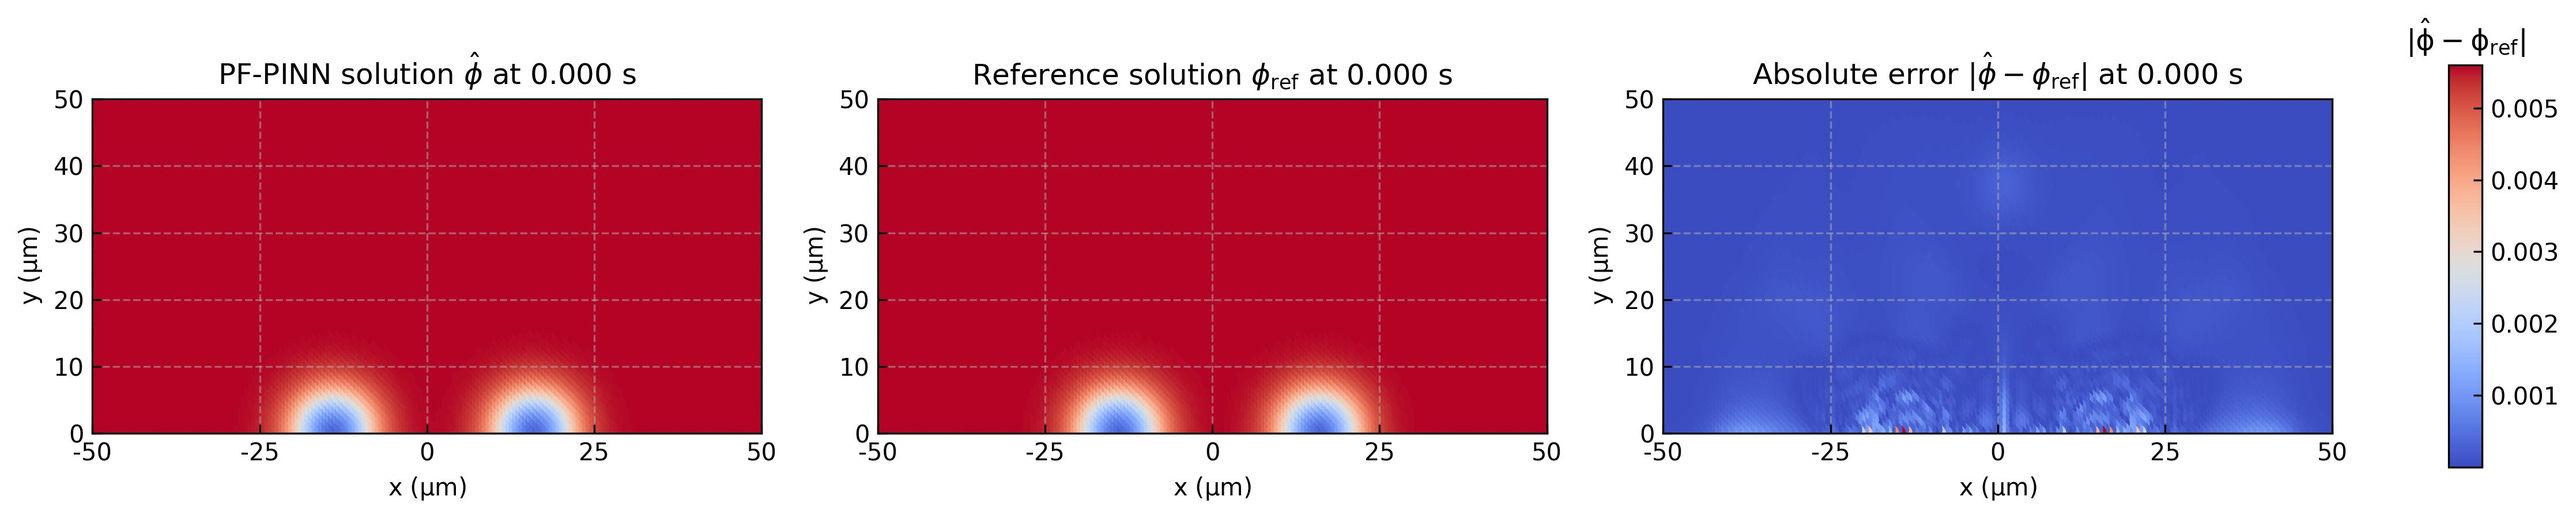
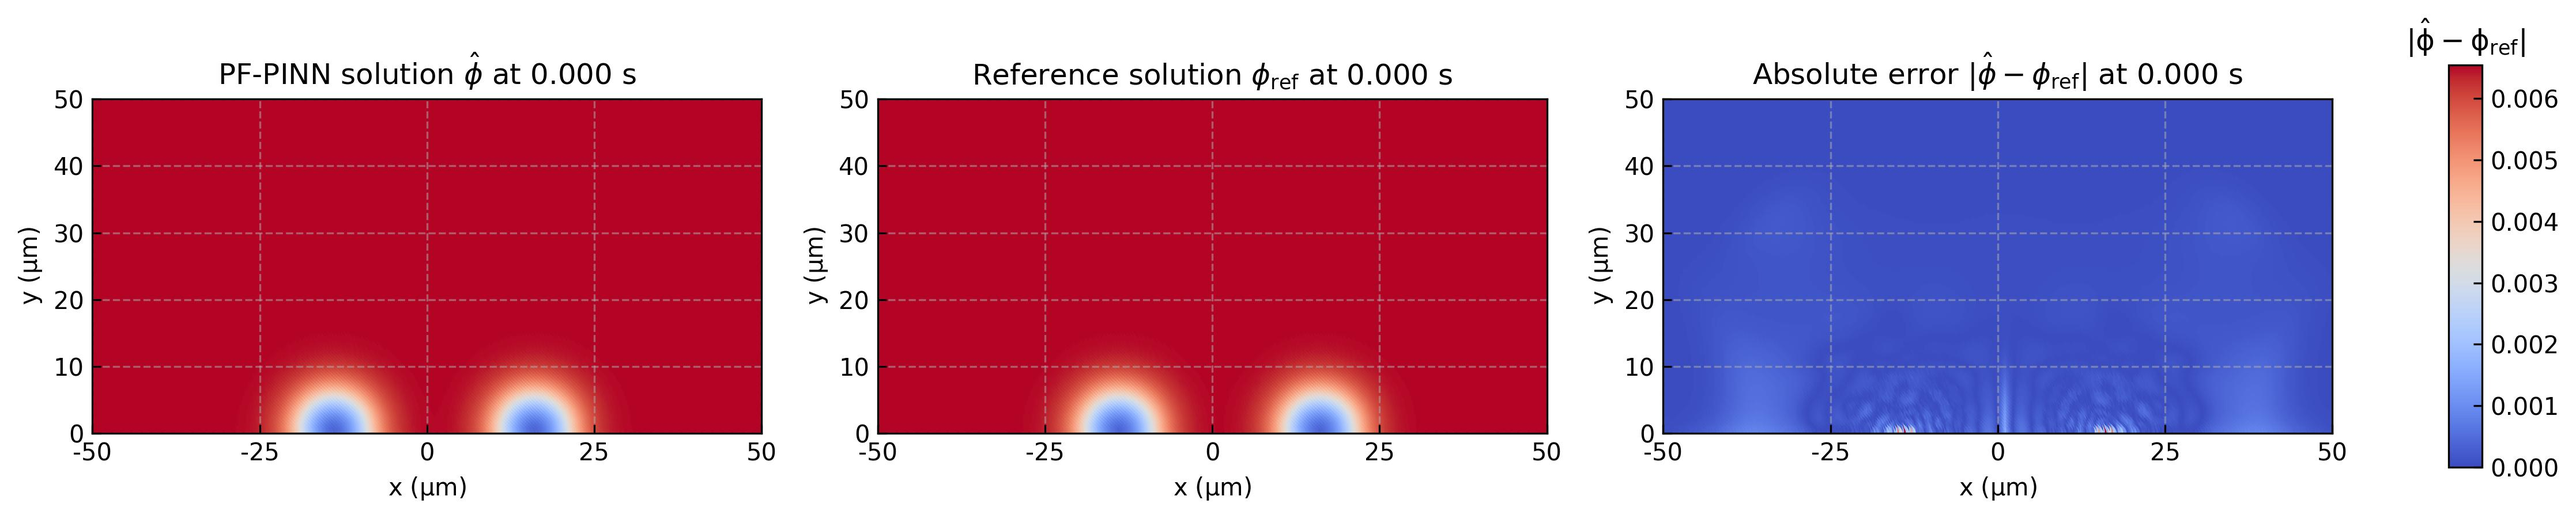
change mixedmodel

diff --git a/pf_pinn/model.py b/pf_pinn/model.py
@@ -169,10 +169,10 @@ class ModifiedMLP(torch.nn.Module):
         ])
 
         self.out_layer = torch.nn.Linear(hidden_dim, out_dim)
-        self.act = torch.nn.GELU()
+        self.act = torch.nn.SiLU()
         # self.alpha = torch.nn.Parameter(
-        #     torch.tensor([3.0]*out_dim, dtype=torch.float32),
-        #     requires_grad=True)
+        #     torch.tensor([5.0]*out_dim, dtype=torch.float32),
+        #     requires_grad=False)
 
         # use xavier initialization
         torch.nn.init.xavier_normal_(self.gate_layer_1.weight)
@@ -180,16 +180,16 @@ class ModifiedMLP(torch.nn.Module):
         for layer in self.hidden_layers:
             torch.nn.init.xavier_normal_(layer.weight)
         torch.nn.init.xavier_normal_(self.out_layer.weight)
-        
+
     def forward(self, x):
         u = self.act(self.gate_layer_1(x))
         v = self.act(self.gate_layer_2(x))
         for idx, layer in enumerate(self.hidden_layers):
             x = self.act(layer(x))
             x = x * u + (1 - x) * v
-        return torch.tanh(self.out_layer(x)) / 2 + 1/2
+        # return torch.tanh(self.out_layer(x)) / 2 + 1/2
         # return torch.sigmoid(self.out_layer(x))
-        # return self.out_layer(x)
+        return self.out_layer(x)
 
         
 class MultiscaleAttentionNet(torch.nn.Module):
@@ -231,9 +231,9 @@ class ResNet(torch.nn.Module):
         self.hidden_layers = torch.nn.ModuleList([torch.nn.Linear(hidden_dim, hidden_dim) for _ in range(layers)])
         self.out_layer = torch.nn.Linear(hidden_dim, out_dim)
         self.act = torch.nn.Tanh()
-        self.alpha = torch.nn.Parameter(
-            torch.tensor([3.0]*out_dim, dtype=torch.float32),
-            requires_grad=True)
+        # self.alpha = torch.nn.Parameter(
+        #     torch.tensor([3.0]*out_dim, dtype=torch.float32),
+        #     requires_grad=True)
         
     def forward(self, x):
         # x = self.feature_fusion(x)
@@ -245,30 +245,35 @@ class ResNet(torch.nn.Module):
             # x = self.act(layer(x))
             
         # return torch.tanh(self.out_layer(x)) / 2 + 1/2
-        return torch.tanh(self.out_layer(x)) / 2 + 1/2
+        # return torch.tanh(self.out_layer(x)) / 2 + 1/2
+        return self.out_layer(x)
         
-# class MixedModel(torch.nn.Module):
-#     def __init__(self, in_dim, hidden_dim, out_dim, layers):
-#         super().__init__()
-#         self.model_cs = ModifiedMLP(in_dim, hidden_dim, out_dim, layers)
-#         self.model_phi = ModifiedMLP(in_dim, hidden_dim, out_dim, layers)
-
-#     def forward(self, x):
-#         phi = self.model_phi(x)
-#         cs = self.model_cs(x)
-#         cl = cs + (CLE - CSE)
-#         c = (-2*phi**3+3*phi**2) * cs + (1 + 2*phi**3 - 3*phi**2) * cl
-#         return torch.cat([phi, c], dim=1)
-
 class MixedModel(torch.nn.Module):
     def __init__(self, in_dim, hidden_dim, out_dim, layers):
         super().__init__()
-        self.model = ModifiedMLP(in_dim, hidden_dim, out_dim, layers)
-        
+        self.model_cl = ResNet(in_dim, hidden_dim, out_dim, layers)
+        self.model_phi = ModifiedMLP(in_dim, hidden_dim, out_dim, layers)
+
     def forward(self, x):
-        sol = self.model(x)
-        c = sol[:, 1:2] + (CLE - CSE) * (1 + 2*sol[:, 0:1]**3 - 3*sol[:, 0:1]**2)
-        return torch.cat([sol[:, 0:1], c], dim=1)
+        phi = torch.tanh(self.model_phi(x)) / 2 + 1/2
+        cl = torch.sigmoid(self.model_cl(x)) * (1 - CSE + CLE)
+        cs = cl + (CSE - CLE)
+        c = (-2*phi**3+3*phi**2) * cs + (1 + 2*phi**3 - 3*phi**2) * cl
+        return torch.cat([phi, c], dim=1)
+
+# class MixedModel(torch.nn.Module):
+#     def __init__(self, in_dim, hidden_dim, out_dim, layers):
+#         super().__init__()
+#         self.model_cl = ResNet(in_dim, hidden_dim, out_dim, layers)
+#         self.model_phi = ModifiedMLP(in_dim, hidden_dim, out_dim, layers)
+
+#     def forward(self, x):
+#         phi = torch.tanh(self.model_phi(x)) / 2 + 1/2
+#         cl = torch.sigmoid(self.model_cl(x)) * (1 - CSE + CLE)
+#         cs = cl + (CSE - CLE)
+#         c = (-2*phi**3+3*phi**2) * cs + (1 + 2*phi**3 - 3*phi**2) * cl
+#         return torch.cat([phi, c], dim=1)
+
 
         
 class PFPINN(torch.nn.Module):
@@ -290,7 +295,7 @@ class PFPINN(torch.nn.Module):
         # self.embedding = SpatialTemporalFourierEmbedding(DIM+1, embedding_features).to(self.device)
         # self.model = PirateNet(DIM+1, 64, 2, 2).to(self.device)
         # self.model = ModifiedMLP(128, 128, 2, 6).to(self.device)
-        self.model = ModifiedMLP(128, 64, 2, 4).to(self.device)
+        self.model = MixedModel(128, 64, 1, 4).to(self.device)
         # self.model = KAN([256, 32, 32, 2]).to(self.device)
 
 
@@ -445,7 +450,7 @@ class PFPINN(torch.nn.Module):
         ac = dphi_dt - AC1 * (sol[:, 1:2] - h_phi*(CSE-CLE) - CLE) * (CSE - CLE) * dh_dphi \
             + AC2 * dg_dphi - AC3 * nabla2phi 
 
-        return [ac/1e8, ch/1e2]
+        return [ac/1e6, ch]
         # return [ac, ch]
 
     def gradient(self, loss):

diff --git a/2d-dissolution-2pits-causal-gradient.py b/2d-dissolution-2pits-causal-gradient.py
@@ -47,15 +47,15 @@ class GeoTimeSampler:
             raise ValueError(f"Unknown strategy {strategy}")
         
         
-        # mins = [self.geo_span[0][0], self.geo_span[1][0], self.time_span[0]]
-        # maxs = [self.geo_span[0][1], self.geo_span[1][1], np.sqrt(self.time_span[1])]
-        # geotime = func(mins=mins, maxs=maxs, num=in_num)
-        # geotime[:, -1] = geotime[:, -1]**2
+        mins = [self.geo_span[0][0], self.geo_span[1][0], self.time_span[0]]
+        maxs = [self.geo_span[0][1], self.geo_span[1][1], np.sqrt(self.time_span[1])]
+        geotime = func(mins=mins, maxs=maxs, num=in_num)
+        geotime[:, -1] = geotime[:, -1]**2
         
-        geotime = func(mins=[self.geo_span[0][0], self.geo_span[1][0], self.time_span[0]],
-                       maxs=[self.geo_span[0][1], self.geo_span[1]
-                             [1], self.time_span[1]],
-                       num=in_num)
+        # geotime = func(mins=[self.geo_span[0][0], self.geo_span[1][0], self.time_span[0]],
+        #                maxs=[self.geo_span[0][1], self.geo_span[1]
+        #                      [1], self.time_span[1]],
+        #                num=in_num)
 
         return geotime.float().requires_grad_(True)
 
@@ -83,27 +83,26 @@ class GeoTimeSampler:
         xyts_right = xyts.clone()
         xyts_right[:, 0:1] += 0.15
 
-        xts = func(mins=[self.geo_span[0][0], self.time_span[0]],
-                   maxs=[self.geo_span[0][1], self.time_span[1]],
-                   num=bc_num//2)
-        top = torch.cat([xts[:, 0:1],
-                        torch.full((xts.shape[0], 1), self.geo_span[1][1], device=xts.device),
-                        xts[:, 1:2]], dim=1)  # 顶边
+#         xts = func(mins=[self.geo_span[0][0], self.time_span[0]],
+#                    maxs=[self.geo_span[0][1], self.time_span[1]],
+#                    num=bc_num//2)
+#         top = torch.cat([xts[:, 0:1],
+#                         torch.full((xts.shape[0], 1), self.geo_span[1][1], device=xts.device),
+#                         xts[:, 1:2]], dim=1)  # 顶边
 
-        yts = func(mins=[self.geo_span[1][0], self.time_span[0]],
-                   maxs=[self.geo_span[1][1], self.time_span[1]],
-                   num=bc_num//2)
+#         yts = func(mins=[self.geo_span[1][0], self.time_span[0]],
+#                    maxs=[self.geo_span[1][1], self.time_span[1]],
+#                    num=bc_num//2)
 
-        left = torch.cat([torch.full((yts.shape[0], 1), self.geo_span[0][0], device=yts.device),
-                          yts[:, 0:1],
-                          yts[:, 1:2]], dim=1)  # 左边
+#         left = torch.cat([torch.full((yts.shape[0], 1), self.geo_span[0][0], device=yts.device),
+#                           yts[:, 0:1],
+#                           yts[:, 1:2]], dim=1)  # 左边
 
-        right = torch.cat([torch.full((yts.shape[0], 1), self.geo_span[0][1], device=yts.device),
-                           yts[:, 0:1],
-                           yts[:, 1:2]], dim=1)  # 右边
+#         right = torch.cat([torch.full((yts.shape[0], 1), self.geo_span[0][1], device=yts.device),
+#                            yts[:, 0:1],
+#                            yts[:, 1:2]], dim=1)  # 右边
 
-        xyts = torch.cat([xyts_left, xyts_right,
-                         top,left,right], dim=0)
+        xyts = torch.cat([xyts_left, xyts_right,], dim=0)
 
         return xyts.float().requires_grad_(True)
 
@@ -186,10 +185,10 @@ MESH_POINTS = np.load(config.get("TRAIN", "MESH_POINTS").strip('"')) * GEO_COEF
 num_seg = config.getint("TRAIN", "NUM_SEG")
 
 causal_configs = {
-    "eps": 1e-1,
+    "eps": 1e-5,
     "min_thresh": 0.99,
     "step": 10,
-    "mean_thresh": 0.2
+    "mean_thresh": 0.5
 }
 
 
@@ -226,7 +225,7 @@ def split_temporal_coords_into_segments(ts, time_span, num_seg):
 
 criteria = torch.nn.MSELoss()
 opt = torch.optim.Adam(net.parameters(), lr=LR)
-scheduler = torch.optim.lr_scheduler.StepLR(opt, step_size=10000, gamma=0.8)
+scheduler = torch.optim.lr_scheduler.StepLR(opt, step_size=1000, gamma=0.9)
 opt_method = "adam"
 
 GEOTIME_SHAPE = eval(config.get("TRAIN", "GEOTIME_SHAPE"))

diff --git a/pf_pinn/samplings.py b/pf_pinn/samplings.py
@@ -46,7 +46,7 @@ def make_uniform_grid_data_transition(mins, maxs, num):
     if not len(mins) == len(maxs) == len(num):
         raise ValueError(f"mins, maxs, num should have the same length.")
     
-    maxs[-1] = maxs[-1] ** (1/2)
+    # maxs[-1] = maxs[-1] ** (1/2)
     each_col = [torch.linspace(mins[i], maxs[i], num[i], device=DEVICE)[1:-1]
                 for i in range(len(mins))]
     distances = [(maxs[i] - mins[i]) / (num[i] - 1) for i in range(len(mins))]
@@ -54,7 +54,7 @@ def make_uniform_grid_data_transition(mins, maxs, num):
              for i in range(len(distances))]
     shift = torch.cat(shift, dim=0)
     each_col = [each_col[i] + shift[i] for i in range(len(each_col))]
-    each_col[-1] = each_col[-1] ** 2
+    # each_col[-1] = each_col[-1] ** 2
 
     # each_col_cliped = [np.clip(each_col[i] + shift[i], mins[i], maxs[i]) for i in range(len(each_col))]
     # return np.stack(np.meshgrid(*each_col), axis=-1).reshape(-1, len(mins))

diff --git a/pf_pinn/embedding.py b/pf_pinn/embedding.py
@@ -118,7 +118,7 @@ class SpatialTemporalFourierEmbedding(nn.Module):
     def __init__(self, in_features, out_features, scale=2):
         super().__init__()
         self.spatial_weight = nn.Parameter(torch.randn(in_features-1, out_features) * np.pi * scale, requires_grad=True)
-        self.temporal_weight = nn.Parameter(torch.linspace(1/2, 8, 2*out_features).reshape(1, -1), requires_grad=True)
+        self.temporal_weight = nn.Parameter(torch.linspace(1, 6, 2*out_features).reshape(1, -1), requires_grad=True)
         
         
     def forward(self, x):
